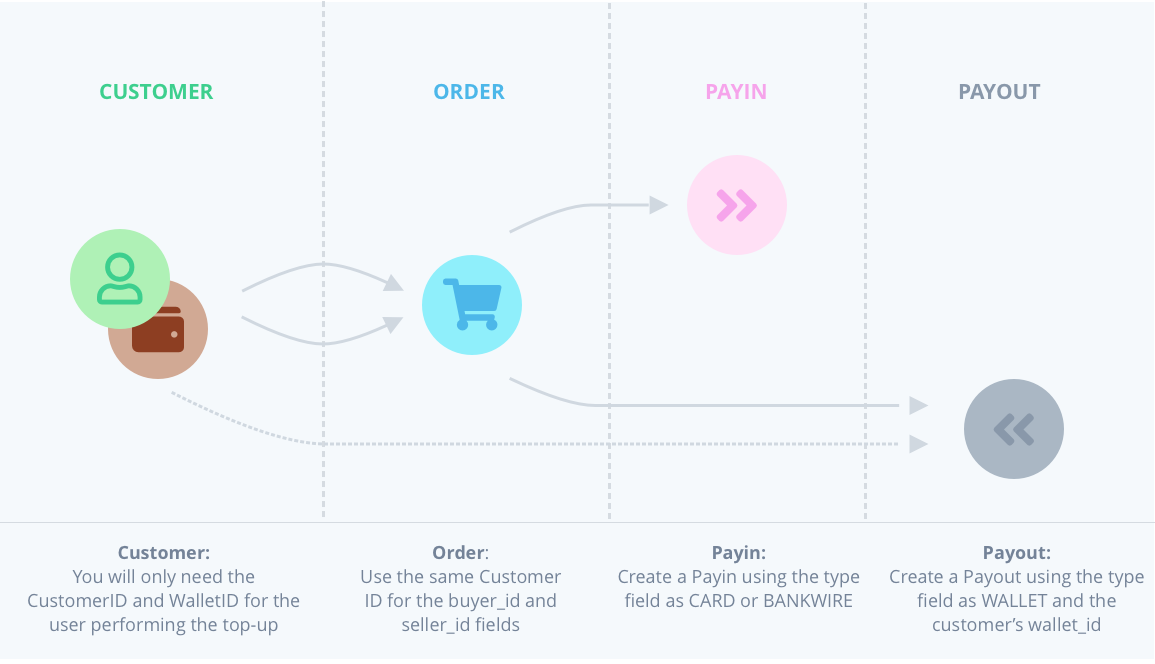
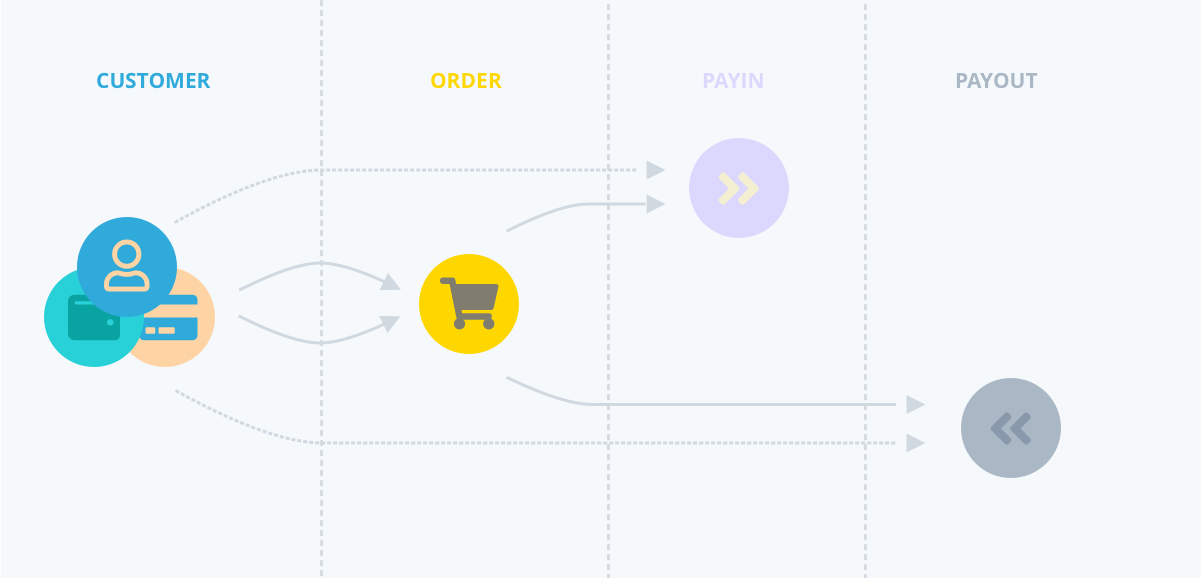
Update payment flow

diff --git a/content/payment-flows.md b/content/payment-flows.md
@@ -6,6 +6,8 @@ title: Payment Flows
 
 ---
 
+Truust is built following a transaction based flow. **Every movement registered on the platform must be associated with an order** and it must follows the standard lifecycle.
+
 ## Order Lifecycle
 
 Every order follows a standard life-cycle. You need to check and understand how this life-cycle will fit into your platform. Order statuses can help you understand where your money is in the order lifecycle.
@@ -16,7 +18,7 @@ The process will usually start when a new transaction happens in your platform. 
 
 The current order status shall be `DRAFT`.
 
-### 2. Buyer receives the buyer_link and completes the payment
+### 2. Buyer receives the buyer_link and completes the Pay in
 
 Once the order is created, you must share the order's `buyer_link` with the buyer to complete the payment. The process of sharing the link can be done through our own platform for manual use or the notification methods you normally use on your site.
 
@@ -30,7 +32,7 @@ Once the `payin` is created through our API, you must redirect the user to the `
 
 When the buyer finishes the payment process, he is redirected to the URL that you set when creating the order on the step 1 or a default one provided by us. The order status on this moment shall be `PUBLISHED` if the payment is sucessful or `FAILURE` if there is a problem during the payment.
 
-### 3. Seller receives seller_link and accepts the order
+### 3. Seller receives seller_link, accepts the order and completes the Payout
 
 After the payment is done, you should notify the seller about the payment status. The seller must navigate to the `seller_link` provided by us, accept the order and fill the bank account information where the money will be deposited. Once the seller fills in that information, he is redirected to the URL that you set up on step 1.
 
@@ -43,7 +45,7 @@ The final status on this process shall be `PENDING_VALIDATE`.
 
 ### 4. Order is validated.
 
-At this moment, the money will be held and waiting for release. **This action is not automatic** and you are responsible to trigger the validation, depending on your bussines rules. Use [our API](/developers) to complete this action or use our Dashboard [Order Actions](/dashboard#orderactions).
+At this moment, the money will be held and waiting for release. **This action is not automatic and you are responsible to trigger the validation**, depending on your bussines rules. Use [our API](/developers) to complete this action or use our Dashboard [Order Actions](/dashboard#orderactions).
 
 The status at this moment shall be `PENDING_RELEASE`.
 
@@ -76,17 +78,44 @@ You don't need to worry too much about this list. In our Dashboard, our order li
 
 </div>
 
+## Split Payments
+
+Our tool features seamless payment collection, disbursement and management. It helps you reduce your operational costs with our automated split payments. All while tracking the flow of funds from a customer to a recipient, fully recording all transactions.
+
+### Default Split Payments
+
+![](/assets/default.png)
+
+![](/assets/defaultflow.png)
+
+### Multiple Split
+
+To use a multiple split payment, our system provides a set of wallet payments flows.
+
 ## Wallet Payments
 
 Using our standard order life-cycle and our available payin and payout types we offer a variety of money flows to cover almost every need.
 
-This kind of complex movements are only available with our API.
+This kind of complex movements are **only available through our API and it requires you to follow our guidelines** to complete the desired output. Please, read carefully the following descriptions in orders to understand the full cycle.
 
 ### Payin to Wallet
 
-This movement will transfer the funds from the buyer's card or bank account to the seller's wallet.
+This movement will transfer the funds **from the buyer's card or bank account to the seller's wallet**, following a one to one relationship.
+
+Using our API we will require you to create the following objects and relationships:
 
 ![](/assets/payintowallet.png)
+
+Remember to use, at least, the following values when creating the objects:
+
+- **Customer**: You will use the Customer ID for both users and the seller's Wallet ID
+- **Order**: Use the Customer ID releated with every user for the `buyer_id` and the `seller_id` respective fields
+- **Payin**: Create a payin using the `CARD` or `BANKWIRE` type
+- **Payout**: Create a payout using the type `WALLET` and use the seller's Wallet ID
+
+In this case, the money will flow from the buyer's card, stay held on the order's wallet and, finally, released following the next scheme:
+
+![](/assets/payintowalletflow.png)
 
 ### Payin from Wallet
 
@@ -94,11 +123,22 @@ This movement will transfer the funds from the buyer's wallet to the seller's ba
 
 ![](/assets/payinfromwallet.png)
 
+The money will flow as follows:
+
+![](/assets/payinfromwalletflow.png)
+
 ### Wallet Top-up
 
-This movement will transfer the funds from the customer`s card or bank account to the own wallet.
+This movement will transfer the funds from the customer's card or bank account to a wallet, allowing him to top-up his own wallet for future usages:
 
 ![](/assets/wallettopup.png)
+
+- **Customer**: You will only need the Customer ID and Wallet ID for the user performing the top-up
+- **Order**: Use the same Customer ID for the order's `buyer_id` and order's `seller_id` fields
+- **Payin**: Create a payin using the `ADDON` or `BANKWIRE` type
+- **Payout**: Create a payout using the type `WALLET` and the customer's Wallet ID
+
+![](/assets/wallettopupflow.png)
 
 ### One to One
 
@@ -107,14 +147,6 @@ This movement will transfer the funds from the customer`s card or bank account t
 ### Many to One
 
 ### Many to Many
-
-## Split Payments
-
-Our tool features seamless payment collection, disbursement and management. It helps you reduce your operational costs with our automated split payments. All while tracking the flow of funds from a customer to a recipient, fully recording all transactions.
-
-### Default Split Payments
-
-### Multiple Split
 
 ## Escrow Payments
 

diff --git a/content/getting-started.md b/content/getting-started.md
@@ -107,7 +107,9 @@ Fill in the fields to create a new user.
 
 To start working with Truust you must verify your account by providing your personal data, product/service data and company legal data.
 
-https://www.youtube.com/watch?v=pe_gRGE3BLE
+---
+
+<iframe width="100%" height="315" src="https://www.youtube.com/embed/pe_gRGE3BLE" frameborder="0" allow="accelerometer; autoplay; encrypted-media; gyroscope; picture-in-picture" allowfullscreen></iframe>
 
 #### Step 1: Your Product Details
 
